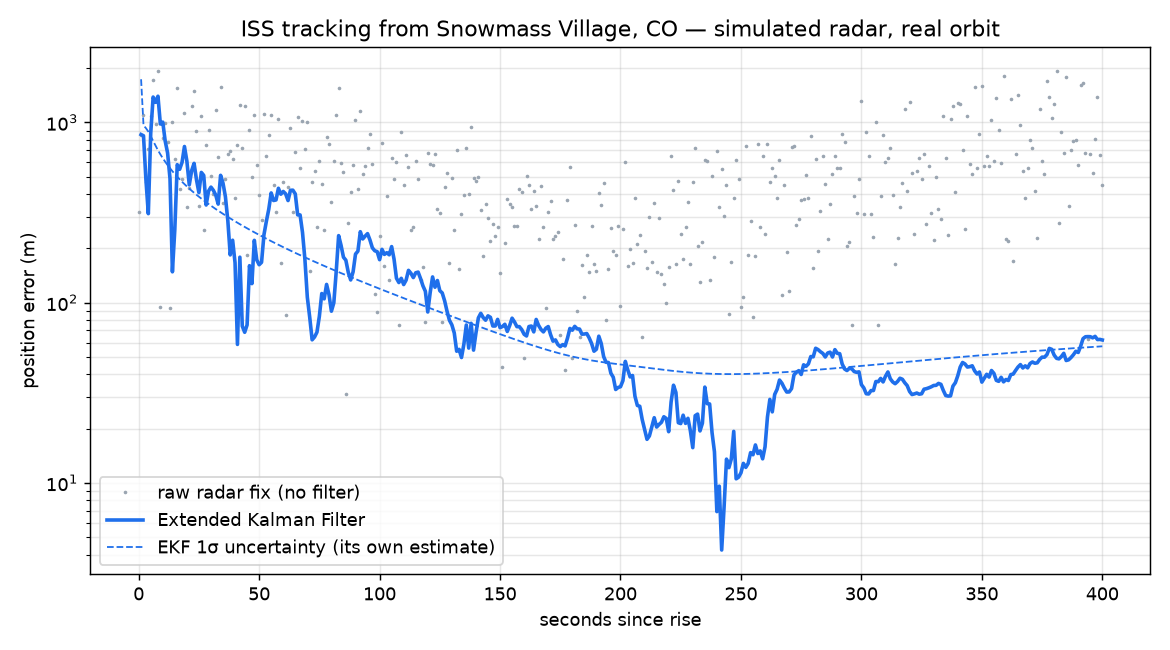
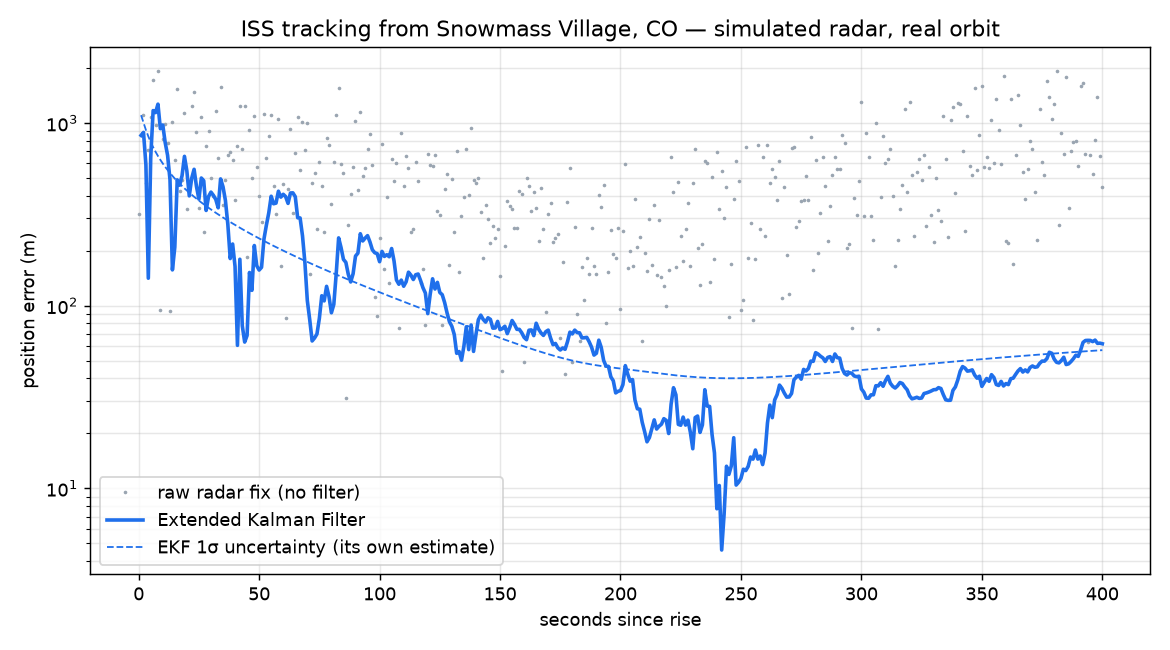
Add UKF and EKF-vs-UKF comparison; derive initial covariance from radar noise
The comparison exposed a shared bug: a fixed 1 km / 1 km/s starting covariance
left both filters ~100x overconfident on noisy radars. Starting covariance is now
the radar noise mapped into position space; regression test added.

diff --git a/compare_filters.py b/compare_filters.py
@@ -1,0 +1,92 @@
+"""EKF vs UKF on the same simulated radar data, across radars of decreasing quality.
+
+Each scenario runs 30 Monte Carlo trials over the same ISS pass (same orbit, fresh
+noise each trial) and reports accuracy, consistency (ANEES, ideal 3.0) and run time.
+Uses the observer in config.local.json (or ISS_CONFIG) and the next day's highest pass.
+"""
+import time
+from pathlib import Path
+
+import matplotlib
+matplotlib.use("Agg")
+import matplotlib.pyplot as plt
+import numpy as np
+
+from iss_now import load_iss
+from iss_passes import find_passes, load_observer
+from kalman_track import run_ekf, simulate_pass
+from ukf import run_ukf
+
+RUNS = 30
+SCENARIOS = [  # label, range noise (km), angle noise (deg), seconds between measurements
+    ("Tracking radar, 1 s", 0.030, 0.03, 1.0),
+    ("Cheap radar, 1 s", 0.5, 0.5, 1.0),
+    ("Cheap radar, 10 s", 0.5, 0.5, 10.0),
+    ("Very cheap radar, 5 s", 2.0, 2.0, 5.0),
+]
+FILTERS = {"EKF": run_ekf, "UKF": run_ukf}
+PLOT_FILE = Path(__file__).parent / "output" / "ekf_vs_ukf.png"
+
+
+def trial_errors(f, data, dt):
+    t, truth, sites, rots, meas, noise = data
+    start = time.perf_counter()
+    est, covs = f(sites, rots, meas, noise, dt=dt)
+    secs = time.perf_counter() - start
+    e = est[2:, :3] - truth[2:, :3]
+    nees = np.array([e[k] @ np.linalg.solve(covs[k + 2][:3, :3], e[k]) for k in range(len(e))])
+    return np.linalg.norm(e, axis=1) * 1000, nees, secs
+
+
+def run_scenario(ts, iss, site, p, sigma_range, sigma_angle, dt):
+    out = {name: {"err": [], "nees": [], "secs": []} for name in FILTERS}
+    for seed in range(RUNS):
+        data = simulate_pass(ts, iss, site, p, np.random.default_rng(seed), dt=dt,
+                             sigma_range_km=sigma_range, sigma_angle_deg=sigma_angle)
+        for name, f in FILTERS.items():
+            err, nees, secs = trial_errors(f, data, dt)
+            out[name]["err"].append(err); out[name]["nees"].append(nees); out[name]["secs"].append(secs)
+    return {name: {k: np.array(v) for k, v in r.items()} for name, r in out.items()}
+
+
+def summarize(r):
+    half = r["err"].shape[1] // 2
+    rms = np.sqrt(np.mean(r["err"][:, half:] ** 2, axis=1))
+    return np.median(rms), np.mean(r["nees"][:, half:]), np.mean(r["secs"]) * 1000
+
+
+def main():
+    ts, iss = load_iss()
+    cfg, site, tz = load_observer()
+    p = max(find_passes(ts, iss, site, days=1), key=lambda p: p["peak"][1])
+    print(f"Pass over {cfg['name']}: {p['rise'][0].astimezone(tz):%a %b %d %I:%M %p}, "
+          f"peak {p['peak'][1]:.1f}°, {RUNS} Monte Carlo runs per scenario\n")
+    print("| Scenario | Filter | 2nd-half RMS error | ANEES (ideal 3.0) | Time per pass |")
+    print("|---|---|---|---|---|")
+    results = {}
+    for label, sr, sa, dt in SCENARIOS:
+        results[label] = run_scenario(ts, iss, site, p, sr, sa, dt)
+        for name in FILTERS:
+            rms, anees, ms = summarize(results[label][name])
+            print(f"| {label} | {name} | {rms:,.0f} m | {anees:.2f} | {ms:.0f} ms |")
+
+    label, _, _, dt = SCENARIOS[-1]
+    fig, (ax1, ax2) = plt.subplots(2, 1, figsize=(9, 7), sharex=True)
+    colors = {"EKF": "#1f6feb", "UKF": "#d1242f"}
+    for name, r in results[label].items():
+        secs = (np.arange(r["err"].shape[1]) + 2) * dt
+        ax1.plot(secs, np.median(r["err"], axis=0), color=colors[name], lw=2, label=f"{name} median error")
+        ax2.plot(secs, np.mean(r["nees"], axis=0), color=colors[name], lw=1.5, label=name)
+    ax1.set_yscale("log"); ax1.set_ylabel("position error (m)"); ax1.legend(); ax1.grid(True, which="both", alpha=0.3)
+    ax1.set_title(f"EKF vs UKF — {label.lower()} (2 km / 2° noise), {RUNS} runs")
+    ax2.axhline(3.0, color="black", ls="--", lw=1, label="ideal (3.0)")
+    ax2.axhspan(2.19, 3.94, color="gray", alpha=0.15, label="95% band for 30 runs")  # chi2(90)/30
+    ax2.set_yscale("log"); ax2.set_ylabel("ANEES"); ax2.set_xlabel("seconds since rise")
+    ax2.legend(); ax2.grid(True, which="both", alpha=0.3)
+    PLOT_FILE.parent.mkdir(exist_ok=True)
+    fig.tight_layout(); fig.savefig(PLOT_FILE, dpi=130)
+    print(f"\nPlot: {PLOT_FILE}")
+
+
+if __name__ == "__main__":
+    main()

diff --git a/kalman_track.py b/kalman_track.py
@@ -73,35 +73,51 @@ def residual(z, zhat):
     return y
 
 
-def simulate_pass(ts, iss, site, p, rng):
-    """Truth states, site geometry and noisy measurements, once per DT, rise to set."""
+def simulate_pass(ts, iss, site, p, rng, dt=DT, sigma_range_km=SIGMA_RANGE_KM, sigma_angle_deg=SIGMA_ANGLE_DEG):
+    """Truth states, site geometry and noisy measurements, once per dt, rise to set."""
     start = p["rise"][0].utc_datetime()
     secs = int((p["set"][0].utc_datetime() - start).total_seconds())
-    t = ts.utc([start + timedelta(seconds=s) for s in np.arange(0, secs + 1, DT)])
+    t = ts.utc([start + timedelta(seconds=s) for s in np.arange(0, secs + 1, dt)])
     sat = iss.at(t)
     truth = np.vstack([sat.position.km, sat.velocity.km_per_s]).T
     sites = site.at(t).position.km.T
     rots = [site.rotation_at(t[i]) for i in range(len(t))]
-    noise = np.array([SIGMA_RANGE_KM, np.radians(SIGMA_ANGLE_DEG), np.radians(SIGMA_ANGLE_DEG)])
+    noise = np.array([sigma_range_km, np.radians(sigma_angle_deg), np.radians(sigma_angle_deg)])
     meas = [measure(truth[i, :3], sites[i], rots[i]) + rng.normal(0, noise) for i in range(len(t))]
     return t, truth, sites, rots, np.array(meas), noise
 
 
-def run_ekf(sites, rots, meas, noise):
-    R = np.diag(noise**2)
+def process_noise(dt):
+    """White-acceleration process noise for a position/velocity state."""
     q = SIGMA_ACCEL**2
-    Q = np.block([[q * DT**3 / 3 * np.eye(3), q * DT**2 / 2 * np.eye(3)],
-                  [q * DT**2 / 2 * np.eye(3), q * DT * np.eye(3)]])
-    # Initialize from the first two raw measurements only
-    p0 = to_position(meas[0], sites[0], rots[0])
-    p1 = to_position(meas[1], sites[1], rots[1])
-    x = np.concatenate([p1, (p1 - p0) / DT])
-    P = np.diag([1.0] * 3 + [1.0] * 3)   # 1 km, 1 km/s initial uncertainty
+    return np.block([[q * dt**3 / 3 * np.eye(3), q * dt**2 / 2 * np.eye(3)],
+                     [q * dt**2 / 2 * np.eye(3), q * dt * np.eye(3)]])
+
+
+def initial_state(sites, rots, meas, noise, dt):
+    """Start from the first two raw measurements only: position from the second fix,
+    velocity from the difference. The starting covariance comes from the radar noise
+    mapped into position space, so a noisier radar starts with honest uncertainty."""
+    R = np.diag(noise**2)
+    fixes, covs = [], []
+    for i in (0, 1):
+        fix = lambda z: to_position(z, sites[i], rots[i])
+        J = jacobian(fix, meas[i], np.array([1e-6, 1e-9, 1e-9]))
+        fixes.append(fix(meas[i])); covs.append(J @ R @ J.T)
+    P = np.block([[covs[1], covs[1] / dt],
+                  [covs[1] / dt, (covs[0] + covs[1]) / dt**2]])
+    return np.concatenate([fixes[1], (fixes[1] - fixes[0]) / dt]), P
+
+
+def run_ekf(sites, rots, meas, noise, dt=DT):
+    R = np.diag(noise**2)
+    Q = process_noise(dt)
+    x, P = initial_state(sites, rots, meas, noise, dt)
     eps = np.array([1e-3] * 3 + [1e-6] * 3)
     est, covs = [np.full(6, np.nan), x.copy()], [np.full((6, 6), np.nan), P.copy()]
     for k in range(2, len(meas)):
-        F = jacobian(lambda s: propagate(s, DT), x, eps)
-        x = propagate(x, DT)
+        F = jacobian(lambda s: propagate(s, dt), x, eps)
+        x = propagate(x, dt)
         P = F @ P @ F.T + Q
         h = lambda s: measure(s[:3], sites[k], rots[k])
         H = jacobian(h, x, eps)

diff --git a/tests/test_ukf.py b/tests/test_ukf.py
@@ -1,0 +1,73 @@
+"""UKF tests, plus a regression test for the initial-covariance bug the comparison found."""
+import numpy as np
+import pytest
+
+from kalman_track import run_ekf, simulate_pass
+from ukf import mean_measurement, run_ukf, sigma_points, sigma_weights
+
+RUNS = 10
+ANEES_LOW, ANEES_HIGH = 1.68, 4.70    # 95% bounds for the mean of 10 chi-square(3) draws
+
+
+@pytest.fixture(scope="module")
+def pass_(passes):
+    return max(passes[:6], key=lambda p: p["peak"][1])
+
+
+def late_anees(f, ts, iss, site, pass_, **noise):
+    dt = noise.pop("dt", 1.0)
+    nees = []
+    for seed in range(RUNS):
+        _, truth, sites, rots, meas, n = simulate_pass(ts, iss, site, pass_, np.random.default_rng(seed),
+                                                       dt=dt, **noise)
+        est, covs = f(sites, rots, meas, n, dt=dt)
+        e = est[2:, :3] - truth[2:, :3]
+        nees.append([e[k] @ np.linalg.solve(covs[k + 2][:3, :3], e[k]) for k in range(len(e))])
+    anees = np.mean(nees, axis=0)
+    return anees[len(anees) // 2:]
+
+
+def test_sigma_points_reproduce_mean_and_covariance():
+    rng = np.random.default_rng(1)
+    A = rng.normal(size=(6, 6)); P = A @ A.T + 6 * np.eye(6); x = rng.normal(size=6)
+    lam, wm, wc = sigma_weights(6)
+    X = sigma_points(x, P, lam)
+    np.testing.assert_allclose(wm @ X, x, atol=1e-9)
+    np.testing.assert_allclose((X - x).T @ (wc[:, None] * (X - x)), P, rtol=1e-6, atol=1e-6)
+
+
+def test_azimuth_mean_is_circular():
+    Z = np.array([[1000, np.radians(359), 0.5], [1000, np.radians(1), 0.5]])
+    z = mean_measurement(Z, np.array([0.5, 0.5]))
+    assert min(np.degrees(z[1]), 360 - np.degrees(z[1])) < 1e-6   # 0°, not 180°
+
+
+def test_ukf_matches_ekf_on_a_good_radar(ts, iss, site, pass_):
+    data = simulate_pass(ts, iss, site, pass_, np.random.default_rng(7))
+    _, truth, sites, rots, meas, noise = data
+    tail = slice(len(truth) // 2, None)
+    rms = {}
+    for name, f in (("ekf", run_ekf), ("ukf", run_ukf)):
+        est, _ = f(sites, rots, meas, noise)
+        rms[name] = np.sqrt(np.mean(np.sum((est[tail, :3] - truth[tail, :3]) ** 2, axis=1)))
+    assert rms["ukf"] * 1000 < 100
+    assert rms["ukf"] == pytest.approx(rms["ekf"], rel=0.1)
+
+
+def test_ukf_is_statistically_consistent(ts, iss, site, pass_):
+    anees = late_anees(run_ukf, ts, iss, site, pass_)
+    assert np.mean((anees > ANEES_LOW) & (anees < ANEES_HIGH)) >= 0.90
+
+
+def test_initial_covariance_scales_with_radar_noise(ts, iss, site, pass_):
+    """Regression: a fixed 1 km / 1 km/s starting covariance left both filters ~100x
+    overconfident on a 0.5° radar (ANEES ~290). It is now derived from the noise."""
+    anees = late_anees(run_ekf, ts, iss, site, pass_, sigma_range_km=0.5, sigma_angle_deg=0.5)
+    assert np.mean((anees > ANEES_LOW) & (anees < ANEES_HIGH)) >= 0.90
+
+
+def test_ukf_stays_honest_where_ekf_linearization_breaks(ts, iss, site, pass_):
+    noisy = dict(sigma_range_km=2.0, sigma_angle_deg=2.0, dt=5.0)
+    ekf = late_anees(run_ekf, ts, iss, site, pass_, **dict(noisy))
+    ukf = late_anees(run_ukf, ts, iss, site, pass_, **dict(noisy))
+    assert ukf.mean() < ANEES_HIGH < ekf.mean()

diff --git a/ukf.py b/ukf.py
@@ -1,0 +1,60 @@
+"""Unscented Kalman Filter for the same tracking problem as kalman_track.run_ekf.
+
+Instead of linearizing with Jacobians, the UKF pushes 2n+1 "sigma points" through
+the real nonlinear dynamics and measurement functions and rebuilds the mean and
+covariance from where they land (Wan & van der Merwe, 2000).
+"""
+import numpy as np
+
+from kalman_track import DT, initial_state, measure, process_noise, propagate, residual
+
+ALPHA, BETA, KAPPA = 1e-3, 2.0, 0.0   # standard scaled-sigma-point choices for Gaussian noise
+
+
+def sigma_weights(n):
+    lam = ALPHA**2 * (n + KAPPA) - n
+    wm = np.full(2 * n + 1, 1 / (2 * (n + lam)))
+    wc = wm.copy()
+    wm[0] = lam / (n + lam)
+    wc[0] = lam / (n + lam) + (1 - ALPHA**2 + BETA)
+    return lam, wm, wc
+
+
+def sigma_points(x, P, lam):
+    n = len(x)
+    L = np.linalg.cholesky((n + lam) * P)
+    return np.vstack([x, x + L.T, x - L.T])
+
+
+def mean_measurement(Z, wm):
+    """Weighted mean of measurement sigma points; azimuth is averaged on the circle."""
+    z = wm @ Z
+    z[1] = np.arctan2(wm @ np.sin(Z[:, 1]), wm @ np.cos(Z[:, 1])) % (2 * np.pi)
+    return z
+
+
+def run_ukf(sites, rots, meas, noise, dt=DT):
+    R = np.diag(noise**2)
+    Q = process_noise(dt)
+    x, P = initial_state(sites, rots, meas, noise, dt)
+    lam, wm, wc = sigma_weights(len(x))
+    est, covs = [np.full(6, np.nan), x.copy()], [np.full((6, 6), np.nan), P.copy()]
+    for k in range(2, len(meas)):
+        # Predict: propagate every sigma point through the orbit dynamics
+        X = np.array([propagate(s, dt) for s in sigma_points(x, P, lam)])
+        x = wm @ X
+        dX = X - x
+        P = dX.T @ (wc[:, None] * dX) + Q
+        # Update: redraw sigma points, push them through the radar model
+        X = sigma_points(x, P, lam)
+        Z = np.array([measure(s[:3], sites[k], rots[k]) for s in X])
+        z = mean_measurement(Z, wm)
+        dZ = np.array([residual(zi, z) for zi in Z])
+        S = dZ.T @ (wc[:, None] * dZ) + R
+        C = (X - x).T @ (wc[:, None] * dZ)
+        K = C @ np.linalg.inv(S)
+        x = x + K @ residual(meas[k], z)
+        P = P - K @ S @ K.T
+        P = (P + P.T) / 2
+        est.append(x.copy()); covs.append(P.copy())
+    return np.array(est), np.array(covs)

diff --git a/README.md b/README.md
@@ -14,6 +14,7 @@ methods.
 | `iss_now.py` | Where the ISS is right now: latitude, longitude, altitude, speed |
 | `iss_passes.py` | Upcoming passes over your location for the next 3 days; `--visible` keeps only the ones you can see |
 | `kalman_track.py` | Simulated radar tracking of one pass, filtered with an EKF; prints an error table and saves a plot |
+| `compare_filters.py` | EKF vs Unscented Kalman Filter across four radar-quality scenarios, 30 Monte Carlo runs each |
 
 ## Setup
 
@@ -50,7 +51,9 @@ the station's range, azimuth and elevation once per second, with Gaussian noise
 filter never sees it. The filter:
 
 1. **Starts** from the first two raw measurements only: position from the
-   first fix, velocity from the difference between the first two.
+   second fix, velocity from the difference between the two. The starting
+   uncertainty is the radar noise mapped into position space, so a noisier
+   radar starts with honestly larger uncertainty (see the finding below).
 2. **Predicts** the next state with physics: two-body gravity plus J2 (Earth's
    equatorial bulge), integrated with fourth-order Runge-Kutta.
 3. **Corrects** the prediction with each new measurement, weighting the two by
@@ -77,6 +80,52 @@ One pass over Snowmass Village, CO (peak 57.6°), 401 measurements at 1 s:
 - The filter's actual error stays close to its own 1σ estimate (dashed line),
   so the filter is consistent: neither overconfident nor overly cautious.
 
+## EKF vs UKF
+
+The Unscented Kalman Filter (`ukf.py`) skips Jacobians. It pushes 13 "sigma
+points" through the real nonlinear orbit and radar models and rebuilds the mean
+and covariance from where they land. Azimuth is averaged on the circle, so
+sigma points at 359° and 1° average to 0°, not 180°.
+
+`compare_filters.py` runs both filters on identical data: same pass, same
+noise draws, 30 Monte Carlo runs per scenario.
+
+| Scenario (range / angle noise, update rate) | Filter | 2nd-half RMS error | ANEES (ideal 3.0) | Time per pass |
+|---|---|---|---|---|
+| Tracking radar (30 m / 0.03°, 1 s) | EKF | 47 m | 3.39 | 65 ms |
+| | UKF | 47 m | 3.40 | 102 ms |
+| Cheap radar (500 m / 0.5°, 1 s) | EKF | 740 m | 3.29 | 65 ms |
+| | UKF | 800 m | 3.35 | 102 ms |
+| Cheap radar (500 m / 0.5°, 10 s) | EKF | 2,161 m | 2.99 | 6 ms |
+| | UKF | 2,069 m | 2.86 | 10 ms |
+| Very cheap radar (2 km / 2°, 5 s) | EKF | 9,551 m | **11.79** | 13 ms |
+| | UKF | **6,270 m** | **3.52** | 21 ms |
+
+![EKF vs UKF on a very noisy radar](docs/ekf_vs_ukf.png)
+
+**What this shows:**
+
+- **On a good radar the two filters are practically identical**, and the EKF
+  is about 1.6× faster. Once converged, the problem is close enough to linear
+  that the EKF's Jacobian is a good approximation.
+- **On a very noisy radar the EKF becomes overconfident.** Its ANEES sits
+  around 10–13, so it believes it is 3–4× more accurate than it really is. The
+  UKF stays inside the 95% consistency band and is about a third more accurate.
+  With 2° of angle noise, the uncertainty region is large enough that a
+  single-point linearization misrepresents it.
+- **Engineering takeaway:** the EKF is fine for a precision radar. The UKF
+  earns its ~60% extra compute when the sensor is poor or the geometry is
+  strongly nonlinear.
+
+**A bug the comparison found.** The first version started both filters with a
+fixed 1 km / 1 km/s uncertainty. That's fine for the tracking radar, but with
+0.5° of angle noise the first fix can be off by over 10 km. Both filters
+started out overconfident, never recovered (ANEES ~290 instead of 3), and on
+the noisiest radar 14 of 30 runs diverged. Deriving the starting covariance
+from the radar noise fixed it: cheap-radar error fell from ~4.4 km to ~0.7 km,
+ANEES returned to ~3.5, and divergences dropped to 0. A regression test now
+covers it.
+
 ## Tests
 
 ```sh
@@ -84,7 +133,7 @@ One pass over Snowmass Village, CO (peak 57.6°), 401 measurements at 1 s:
 .venv/bin/python -m pytest
 ```
 
-18 tests, about 1.5 seconds, no network. They use a saved TLE
+24 tests, about 4 seconds, no network. They use a saved TLE
 (`tests/fixtures/iss.tle`), a fixed start time and the example observer, so
 results don't depend on today's orbit data. The visibility tests need
 `data/de421.bsp` and skip if it hasn't been downloaded yet.
@@ -94,6 +143,8 @@ results don't depend on today's orbit data. The visibility tests need
 | Geometry | Range/azimuth/elevation match Skyfield to 1e-6; measurement → position → measurement round-trips; azimuth residual wraps through north |
 | Dynamics | Gravity magnitude at ISS altitude; J2 is a 1e-4–3e-3 correction; RK4 conserves orbital energy and polar angular momentum to 1e-9 over a full orbit; propagation stays within 10 m of SGP4 over 2 minutes (measured: 0.76 m) |
 | Passes | Rise < peak < set, peak above 10°, sensible durations and spacing; every visible window is sunlit under a dark sky; daytime passes are never marked visible |
+| UKF | Sigma points reproduce the mean and covariance exactly; circular azimuth mean; matches the EKF on a good radar; NEES-consistent; stays consistent on a 2 km / 2° radar where the EKF does not |
+| Regression | Starting covariance scales with radar noise: the EKF stays NEES-consistent on a 0.5° radar (failed with the old fixed 1 km / 1 km/s start) |
 | Filter | Second-half RMS error under 100 m and 5× better than raw fixes; **statistical consistency**: over 10 Monte Carlo runs, the average NEES stays inside its 95% chi-square bounds on at least 90% of steps (measured: 99%, mean 3.4 against an ideal 3.0) |
 
 NEES (normalized estimation error squared) checks whether the filter is honest
@@ -117,7 +168,6 @@ the geometry test.
 ## Possible next steps
 
 - Track across several passes, propagating through the gaps between them
-- Compare EKF vs Unscented Kalman Filter on the same data
 - Add measurement bias and estimate it as part of the state
 - Validate pass times against a published source
 
